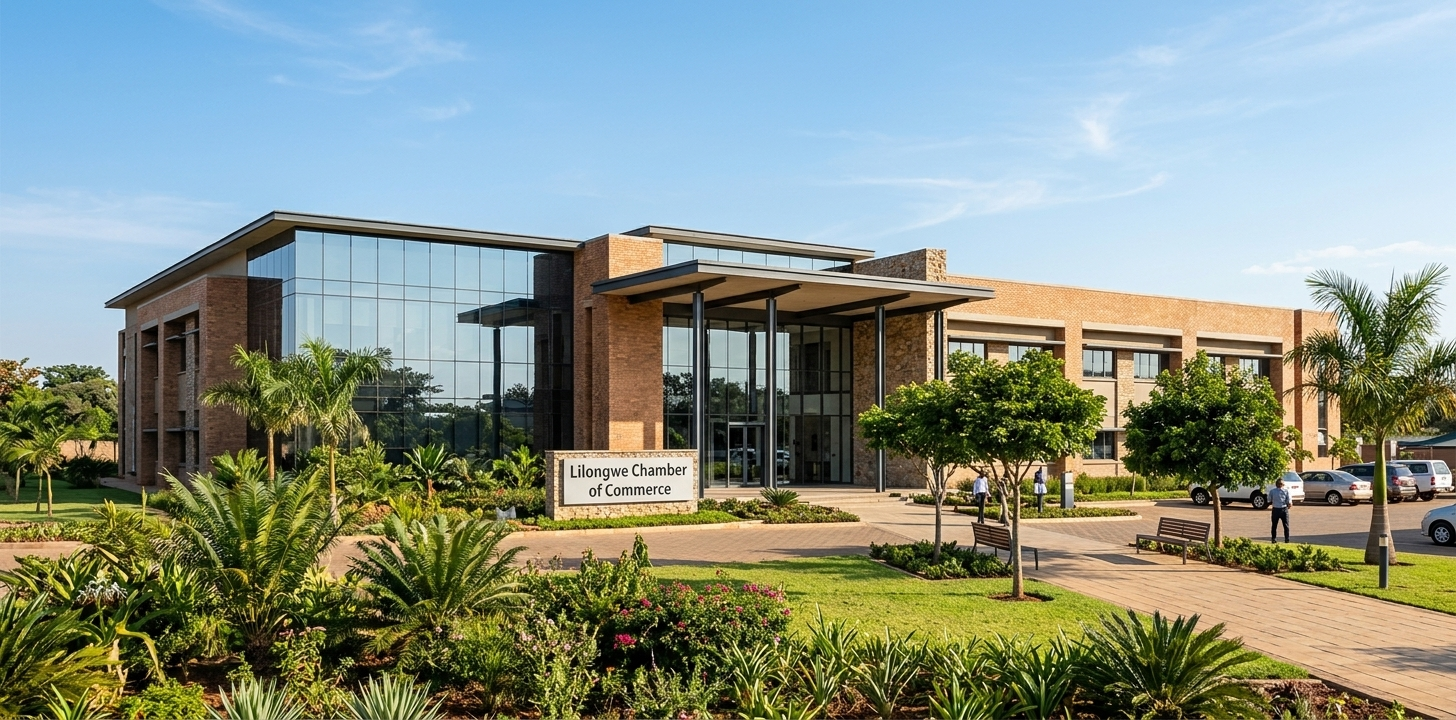
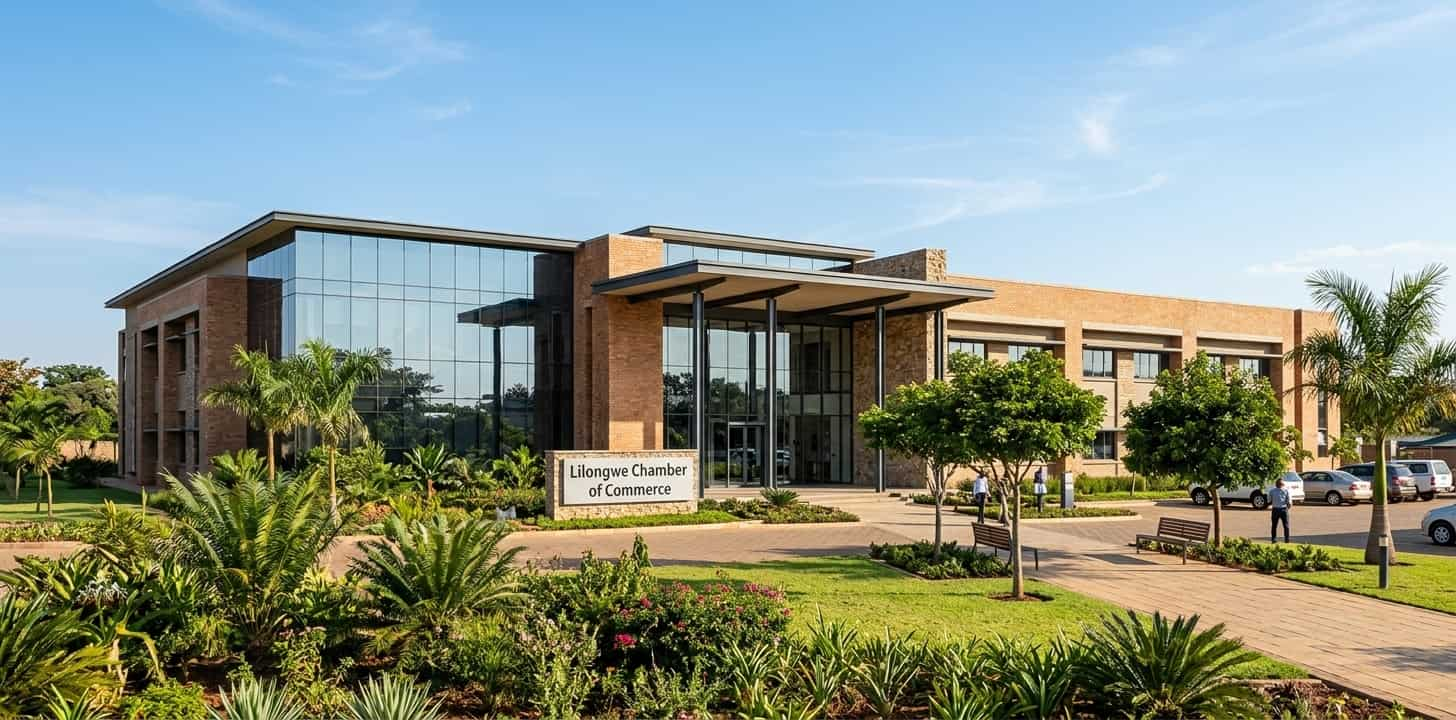
i add voice of business in Lilongwe

diff --git a/chamber/index.html b/chamber/index.html
@@ -17,9 +17,9 @@
     <meta property="og:site_name" content="Lilongwe Chamber of Commerce">
     <meta property="og:type" content="website">
 
-    <link rel="preconnect" href="https://googleapis.com">
-    <link rel="preconnect" href="https://gstatic.com" crossorigin>
-    <link href="https://googleapis.com/css2?family=Roboto:ital,wght@0,100..900;1,100..900&display=swap" rel="stylesheet">
+    <link rel="preconnect" href="https://fonts.googleapis.com">
+<link rel="preconnect" href="https://fonts.gstatic.com" crossorigin>
+<link href="https://fonts.googleapis.com/css2?family=Roboto:ital,wght@0,100..900;1,100..900&display=swap" rel="stylesheet">
 
     <link rel="stylesheet" href="styles/normalize.css">
     <link rel="stylesheet" href="styles/small.css">
